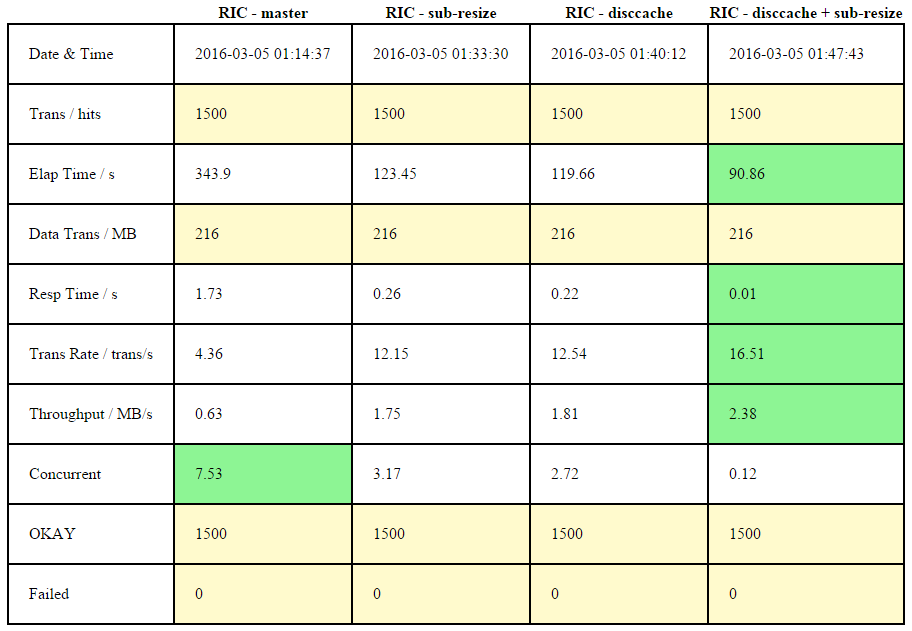
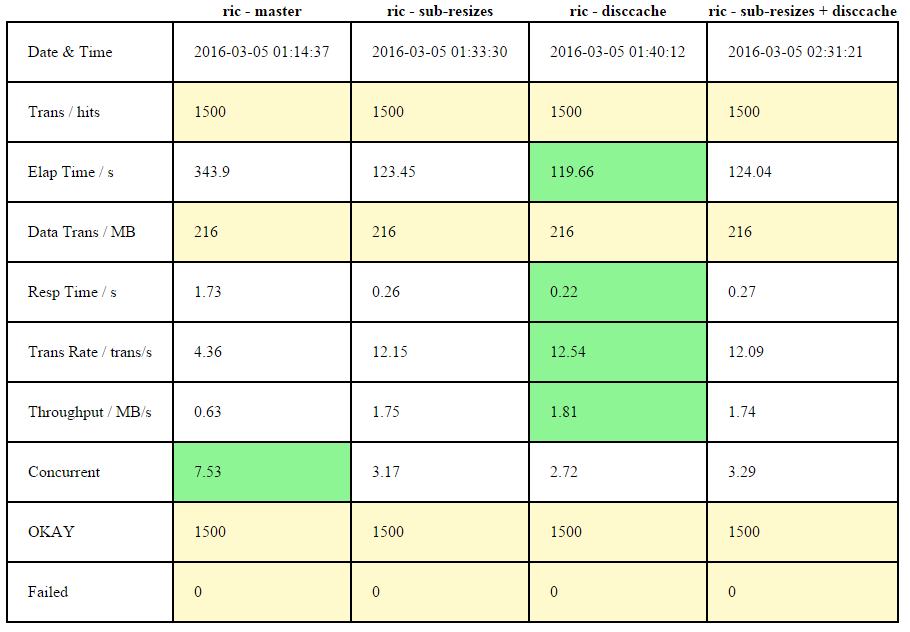
updated perf results

Changed region(s): [[0.0, 0.0, 1.0, 0.9937]]

diff --git a/docs/performance/siege/5.3.2016 - Master - DiscCache - SubResize/siege.html b/docs/performance/siege/5.3.2016 - Master - DiscCache - SubResize/siege.html
@@ -18,16 +18,16 @@
                   <tr>
 
                   <th></th>
-<th>RIC - master</th>
-<th>RIC - sub-resize</th>
-<th>RIC - disccache</th>
-<th>RIC - disccache + sub-resize</th>
+<th>ric - master</th>
+<th>ric - sub-resizes</th>
+<th>ric - disccache</th>
+<th>ric - sub-resizes + disccache</th>
 </tr>
 <tr><td>Date & Time</td>
 <td>2016-03-05 01:14:37</td>
 <td>2016-03-05 01:33:30</td>
 <td>2016-03-05 01:40:12</td>
-<td>2016-03-05 01:47:43</td>
+<td>2016-03-05 02:31:21</td>
 </tr>
 <tr><td>Trans / hits</td>
 <td class="even">1500</td>
@@ -38,8 +38,8 @@
 <tr><td>Elap Time / s</td>
 <td class="neutral">343.9</td>
 <td class="neutral">123.45</td>
-<td class="neutral">119.66</td>
-<td class="best">90.86</td>
+<td class="best">119.66</td>
+<td class="neutral">124.04</td>
 </tr>
 <tr><td>Data Trans / MB</td>
 <td class="even">216</td>
@@ -50,26 +50,26 @@
 <tr><td>Resp Time / s</td>
 <td class="neutral">1.73</td>
 <td class="neutral">0.26</td>
-<td class="neutral">0.22</td>
-<td class="best">0.01</td>
+<td class="best">0.22</td>
+<td class="neutral">0.27</td>
 </tr>
 <tr><td>Trans Rate / trans/s</td>
 <td class="neutral">4.36</td>
 <td class="neutral">12.15</td>
-<td class="neutral">12.54</td>
-<td class="best">16.51</td>
+<td class="best">12.54</td>
+<td class="neutral">12.09</td>
 </tr>
 <tr><td>Throughput / MB/s</td>
 <td class="neutral">0.63</td>
 <td class="neutral">1.75</td>
-<td class="neutral">1.81</td>
-<td class="best">2.38</td>
+<td class="best">1.81</td>
+<td class="neutral">1.74</td>
 </tr>
 <tr><td>Concurrent</td>
 <td class="best">7.53</td>
 <td class="neutral">3.17</td>
 <td class="neutral">2.72</td>
-<td class="neutral">0.12</td>
+<td class="neutral">3.29</td>
 </tr>
 <tr><td>OKAY</td>
 <td class="even">1500</td>
